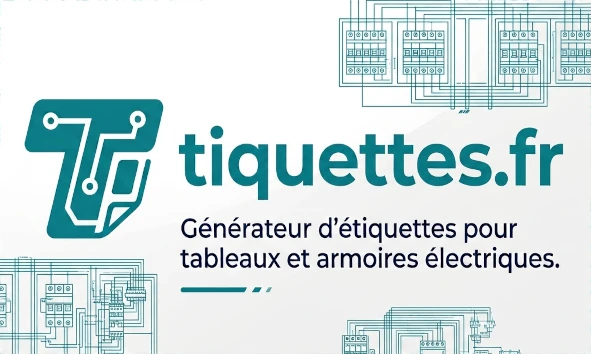
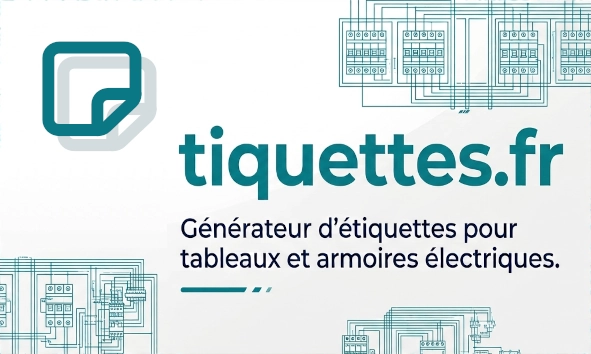
Optimisation des icônes

Changed region(s): [[0.0305, 0.0932, 0.2741, 0.6836]]

diff --git a/index.html b/index.html
@@ -135,7 +135,7 @@
                 <sup class="version"></sup>
             </h1>
             <div class="by">by <a title="Visiter mon portfolio" class="author" href="https://pantaflex44.github.io/Portfolio/"
-                    target="_blank" rel="noopener">pantaflex44</a>
+                    target="_blank" rel="noopener">Christophe Lemoine</a>
             </div>
             <div class="description">Générateur d'étiquettes pour tableaux et armoires électriques.</div>
 
